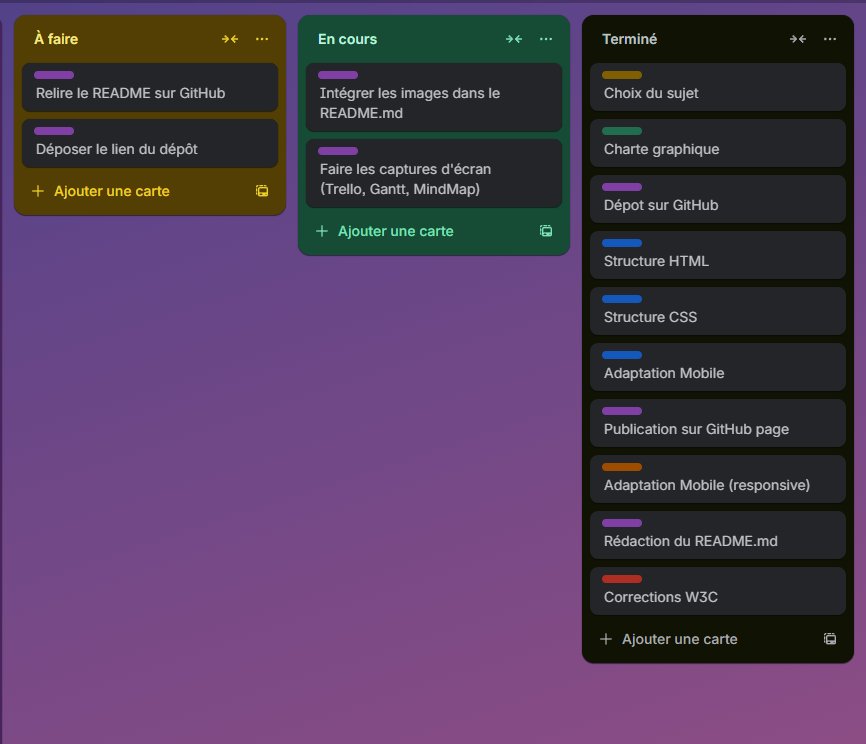
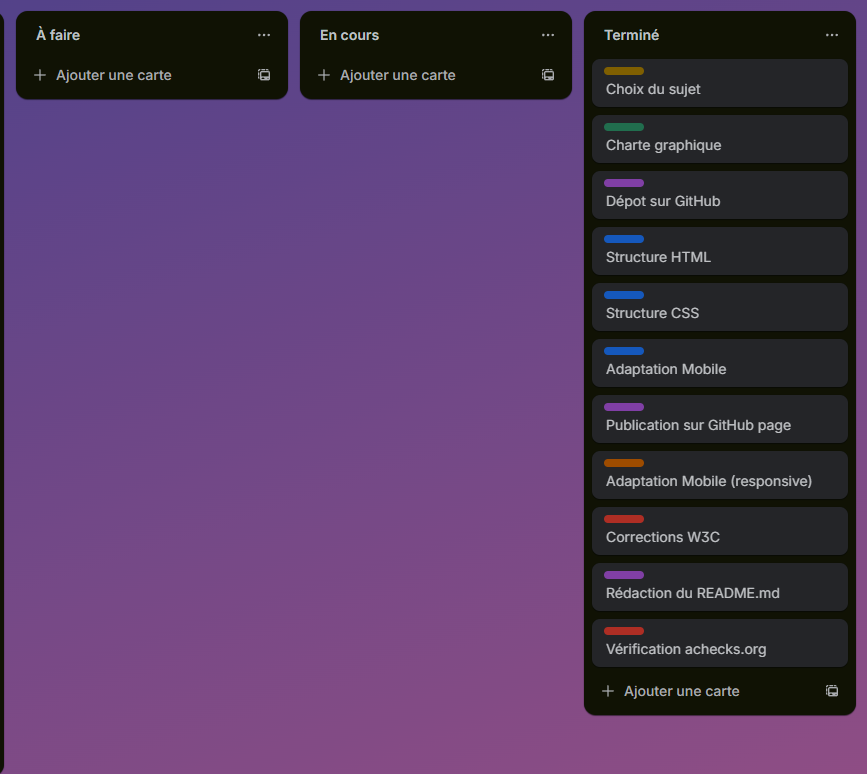
Correction livrable et readme

diff --git a/Film.html b/Film.html
@@ -25,34 +25,34 @@
     </main>
     <div class="film">
         <a href="https://www.youtube.com/watch?v=KiWTr1AQ33M" target="_blank" class="image-film">
-            <img src="Image/affichedemonslayer.webp" alt="">
+            <img src="Image/affichedemonslayer.webp" alt="Affiche du film Demon Slayer">
         </a>
         <a href="https://www.youtube.com/watch?v=VaOijhK3CRU" target="_blank" class="image-film">
-            <img src="Image/afficheinterstellar.jpg" alt="">
+            <img src="Image/afficheinterstellar.jpg" alt="Affiche du film Interstellar">
         </a>
         <a href="https://www.youtube.com/watch?v=alNZYxmXf-Q" target="_blank" class="image-film">
-            <img src="Image/affichedragonballsuperhero.webp" alt="">
+            <img src="Image/affichedragonballsuperhero.webp" alt="Affiche du film Dragon Ball Super Hero">
         </a>
         <a href="https://www.youtube.com/watch?v=t0YHbGwZFEw" target="_blank" class="image-film">
-            <img src="Image/affichelanonne2.webp" alt="">
+            <img src="Image/affichelanonne2.webp" alt="Affiche du film La Nonne 2">
         </a>
         <a href="https://www.youtube.com/watch?v=KCPT7Dbx_RA" target="_blank" class="image-film">
-            <img src="Image/affichechainsawman.png" alt="">
+            <img src="Image/affichechainsawman.png" alt="Affiche du film Chainsaw Man">
         </a>
         <a href="https://www.youtube.com/watch?v=xOjyx-U0O0U" target="_blank" class="image-film">
-            <img src="Image/affichesinners.jpg" alt="">
+            <img src="Image/affichesinners.jpg" alt="Affiche du film Sinners">
         </a>
         <a href="https://www.youtube.com/watch?v=vLsKOVRcUCA" target="_blank" class="image-film">
-            <img src="Image/afficheterrifier3.jpg" alt="">
+            <img src="Image/afficheterrifier3.jpg" alt="Affiche du film Terrifier 3">
         </a>
         <a href="https://www.youtube.com/watch?v=2rWXguw0S-k" target="_blank" class="image-film">
-            <img src="Image/affichemufasa.webp" alt="">
+            <img src="Image/affichemufasa.webp" alt="Affiche du film Mufasa">
         </a>
         <a href="https://www.youtube.com/watch?v=IYpEr0iTt-o" target="_blank" class="image-film">
-            <img src="Image/affichemha.jpg" alt="">
+            <img src="Image/affichemha.jpg" alt="Affiche du film My Hero Academia">
         </a>
         <a href="https://www.youtube.com/watch?v=uCJu2RjSZyE" target="_blank" class="image-film">
-            <img src="Image/affichevenomthelastdance.jpg" alt="">
+            <img src="Image/affichevenomthelastdance.jpg" alt="Affiche du film Venom The Last Dance">
         </a>
     </div>
 </body>

diff --git a/A-propos.css b/A-propos.css
@@ -65,11 +65,13 @@ main a h2:hover{
 .a-propos {
     max-width: 1200px;
     margin: 30px auto;
-    padding: 25px;
     line-height: 1.8;
     font-family: "Luckiest Guy", cursive;
     color: white;
     font-size: 22px;
+    background-color: rgba(0, 0, 0, 0.6); /* Fond noir très opaque (85%) pour valider le test */
+    padding: 40px; /* Espace interne pour que le texte ne colle pas aux bords */
+    border-radius: 20px; /* Bords arrondis */
 }
 
 .a-propos p {

diff --git a/Contact.css b/Contact.css
@@ -68,7 +68,7 @@ form{
     top:50%;
     left:50%;
     transform: translate(-50%, -50%);
-    background-color: rgba(0, 0, 0, 0.596);
+    background-color: rgba(0, 0, 0, 0.6);
     padding: 30px;
     width: 500px;
     height: 350px;

diff --git a/README.md b/README.md
@@ -1,39 +1,29 @@
-# 🎬 Projet NeoStreamZone
+# Projet NeoStreamZone 
 
-Ce projet a été réalisé par **Maxence Yazdani** (étudiant en 1ère année de BUT R&T) dans le cadre de la **SAÉ 14**.
+Ce dépôt contient le code source de mon site web réalisé dans le cadre de la **SAÉ 14**.
+Projet effectué par **Maxence Yazdani**, étudiant en 1ère année de BUT R&T.
 
-## 📝 Présentation du projet
-L'objectif était de concevoir et développer un site Web multipages complet
-J'ai choisi le thème du **cinéma** pour créer une interface qui ressemble à une plateforme de streaming.
+## Présentation
 
-Le site est composé de 4 pages principales :
-* **Accueil (`index.html`)** : La page de bienvenue avec le menu principal.
-* **Nos Films (`Film.html`)** : Une galerie d'affiches de films. J'ai utilisé une grille (**Grid**) pour les aligner. Sur ordinateur, il y a 5 films par ligne, et sur mobile, cela passe automatiquement à 2 films par ligne pour rester lisible.
-* **Contact (`Contact.html`)** : Un formulaire de contact pour les utilisateurs. J'ai travaillé le responsive pour que le formulaire prenne toute la largeur sur un téléphone et soit facile à remplir.
-* **À propos (`A-propos.html`)** : Une page qui explique ma démarche et liste les compétences que j'ai acquises durant ce projet.
+L'objectif de ce projet était de concevoir et développer un site Web multipages complet.
+J'ai choisi le thème du **cinéma** car ces un theme qui ma toujour passioné.
 
-## 💻 Technologies utilisées
-* **HTML** : Pour la structure de toutes les pages et le contenu.
-* **CSS** : Pour le design et la mise en page.
-    * Utilisation de **Flexbox** pour les menus de navigation.
-    * Utilisation de **CSS Grid** pour la page Films.
-    * Utilisation des **Media Queries** (`@media`) pour rendre le site **Responsive** (adapté aux smartphones).
-* **Git & GitHub** : Pour la gestion des versions et la sauvegarde du projet.
+### Structure du site
+Le site s'articule autour de 4 pages principales :
 
-## 🌍 Lien vers le site (Hébergement)
-Le projet est hébergé en ligne via **GitHub Pages**. Vous pouvez le consulter en cliquant sur le lien ci-dessous :
+* **Accueil (`index.html`)** : Page de bienvenue contenant le menu de navigation principal.
+* **Nos Films (`Film.html`)** : Une galerie présentant les affiches de films.
+* **Contact (`Contact.html`)** : Un formulaire permettant aux utilisateurs de me contacter.
+* **À propos (`A-propos.html`)** : Une page détaillant ma démarche et les compétences acquises lors de ce développement.
 
-👉 **[Accéder à NeoStreamZone](https://maxencesti.github.io/NeoStreamZone/)**
+## 🛠 Technologies utilisées
 
-## 📊 Gestion de Projet (Livrables R1.15)
+* **HTML** : Structure sémantique des pages.
+* **CSS** : Mise en forme et design.
+* **Git & GitHub** : Gestion de versions et hébergement du code.
 
-Voici les documents de suivi réalisés pour l'organisation du projet.
+## Accès au site
 
-### 1. Liste des tâches
-![Carte Mentale](Image/cartementalesae14.PNG)
+Le projet est hébergé via GitHub Pages. Vous pouvez le consulté en cliquant ici :
 
-### 2. Planification
-![Diagramme de Gantt](Image/planningdiagrammedeganttsae14.PNG)
-
-### 3. Suivi des tâches
-![Tableau Trello](Image/trellosae14.PNG)
+ **(https://maxencesti.github.io/NeoStreamZone/)**

diff --git a/LIVRABLE.md b/LIVRABLE.md
@@ -1,0 +1,31 @@
+Gestion de Projet (SAÉ 14 - R1.15)
+
+Document regroupant les livrables d'organisation pour le projet **NeoStreamZone**.
+
+
+## 1. Liste des tâches (MindMap)
+
+![Carte Mentale](Image/cartementalesae14.PNG)
+
+**(https://mm.tt/map/3865955021?t=3JBCOkRqyb)**
+
+
+## 2. Planification (Gantt)
+Planning de réalisation effectif sur 3 semaines.
+
+![Diagramme de Gantt](Image/planningdiagrammedeganttsae14.PNG)
+
+**(https://www.canva.com/design/DAG5cLmO4Ho/nHPcLIxcfYdpyRkhVh6OCQ/edit?utm_content=DAG5cLmO4Ho&utm_campaign=designshare&utm_medium=link2&utm_source=sharebutton)**
+
+
+## 3. Suivi (Trello)
+Tableau Kanban pour le suivi des tâches (À faire / En cours / Terminé).
+
+![Tableau Trello](Image/trellosae14.PNG)
+
+**(https://trello.com/invite/b/6915ebcba62a02aeabb9fb4f/ATTI7e0f5e87039e5a0883d6815b62808cad68FFFE98/tableau-projet-sae-maxence)**
+
+
+## 5. Accessibilité (Test Achecks.org)
+
+![Validation Accessibilité](Image/validationachecks.PNG)
